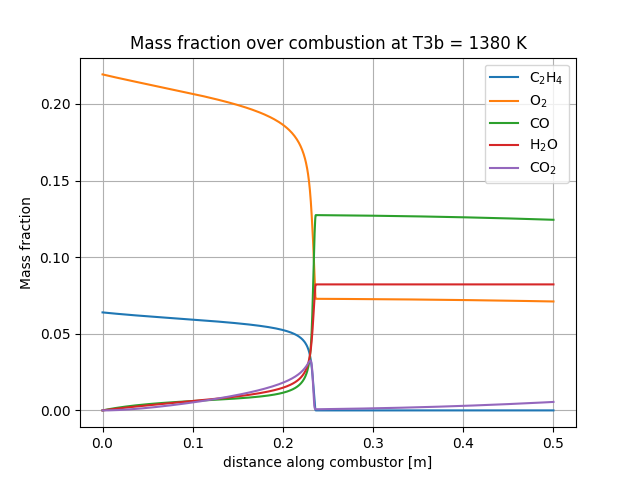
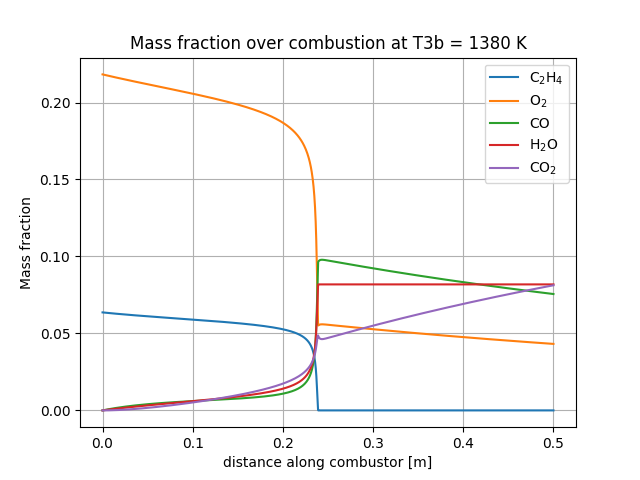
some more changes

diff --git a/code/part_2_code.py b/code/part_2_code.py
@@ -163,7 +163,7 @@ def arrhenius(T):
 def Kc(T):
     """Kc = Kp * pow(pRef/p, ν+...)"""
     # NOTE: Account for partial pressures
-    Kf_i = np.array([pow(10, f(np.float64(T))) for f in logKfuncs])*(Ru*T/pRef)
+    Kf_i = np.array([pow(10, f(np.float64(T))) for f in logKfuncs])/(Ru*T/pRef)
     forward = pow(Kf_i, maskF*ν)
     reverse = pow(Kf_i, maskR*ν)
     return np.prod(reverse, axis=1) / np.prod(forward, axis=1)
@@ -218,7 +218,8 @@ def gradient(x, X, Tt, M2):
 def massFraction(X):
     """Convert concentration into mass fraction"""
     Y = X * MW / np.sum(X*MW) * (1 - YN2)
-    #assert np.sum(Y) + YN2 == 1
+    if  0.999 > np.sum(Y) + YN2 or np.sum(Y) + YN2 > 1.001:
+        print("total mass fraction = ", np.sum(Y) + YN2)
     return Y
 
 
